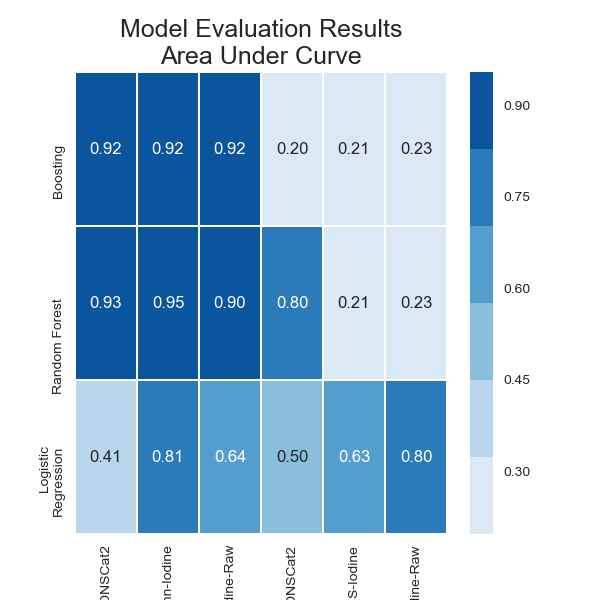
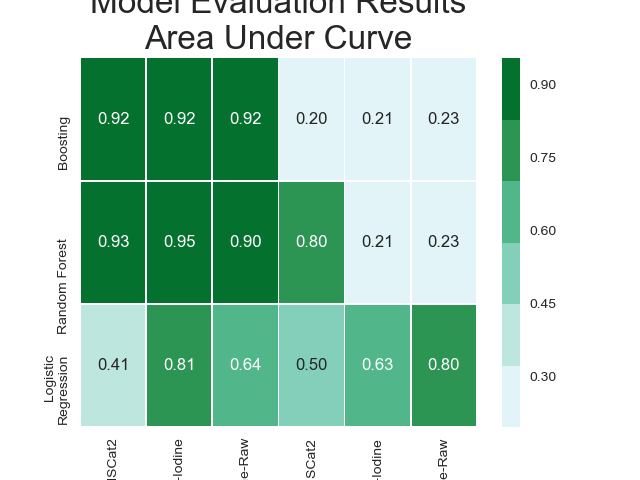
updated model resuts figure

diff --git a/wakeful/plot_table.py b/wakeful/plot_table.py
@@ -4,8 +4,6 @@ import matplotlib.pyplot as plt
 import pandas as pd
 import seaborn as sns; sns.set()
 
-sns.set(rc={"figure.figsize": (6, 6)})
-
 data = [[ 0.916085777907, 0.915616944701, 0.916589884099, 0.196632551623,  0.211288112616, 0.2308009012],
         [ 0.928623293639, 0.954780749378, 0.901791421807, 0.803367448377,  0.211257749068, 0.230859036967],
         [ 0.414221098683, 0.808514540629, 0.644771511243, 0.500000000000,  0.627595992448, 0.802474677585]]
@@ -15,11 +13,13 @@ rows = ['Boosting', 'Random Forest', 'Logistic\nRegression']
 
 df = pd.DataFrame(data, columns=columns, index=rows)
 
-ax = sns.heatmap(df,
-                 annot=True,
-                 linewidths=0.5,
-                 fmt='.2f',
-                 cmap=sns.color_palette("Blues"))
+with sns.plotting_context(rc={'figure.figsize': (12, 16)}):
+    ax = sns.heatmap(df,
+                     annot=True,
+                     linewidths=0.5,
+                     fmt='.2f',
+                     cmap=sns.color_palette('BuGn'))
 
-plt.title('Model Evaluation Results\nArea Under Curve', fontsize=18)
-plt.show()
+    plt.title('Model Evaluation Results\nArea Under Curve', fontsize=24)
+
+    plt.show()
